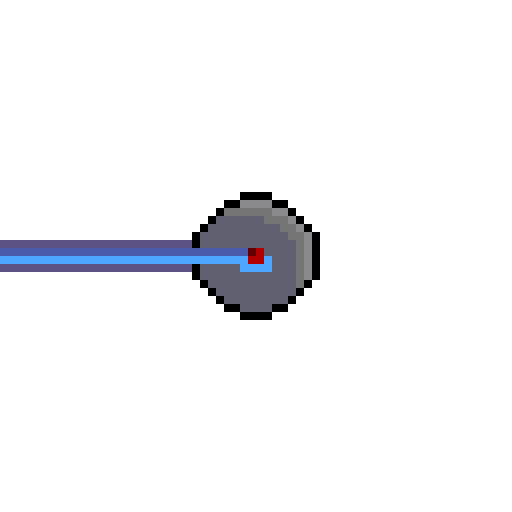
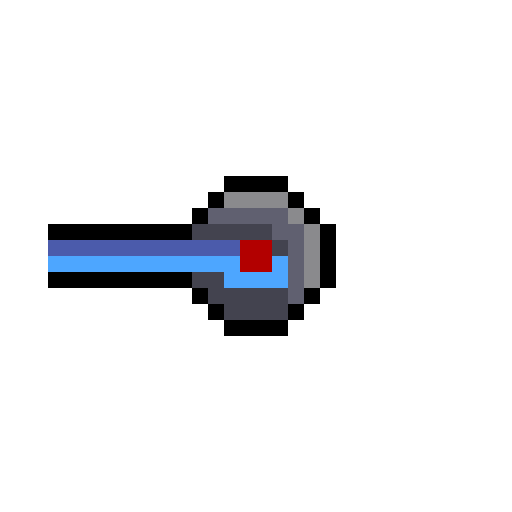
New enemy & enemy initialization tweaks
Added
-Fodder class - child of Dummy class
-Fodder.png
Modified
-SpawnEnemies() - Now spawns Fodder instead of dummy
-Dummy - takes param dims. Defines dimensions of the sprite
-Dummy.__init__() - scales Dummy.image to dims

Changed region(s): [[0.0, 0.3438, 0.6562, 0.6562]]

diff --git a/lib/Enemies.py b/lib/Enemies.py
@@ -12,6 +12,7 @@ class Dummy(pygame.sprite.Sprite):
     speed - number of pixel that a sprite will travel in one frame
     health - self explenatory
     initPos - a tuple with x and y coordinates of the sprite's initial position
+    dims - a tuple with width and height of the sprite
     """
 
     def __init__(
@@ -20,10 +21,12 @@ class Dummy(pygame.sprite.Sprite):
         speed: int,
         health: int,
         initPos: tuple[int, int],
+        dims: tuple[int, int],
     ) -> None:
         super().__init__()
 
         self.image = pygame.image.load(path)
+        self.image = pygame.transform.scale(self.image, dims)
         self.rect = self.image.get_rect()
         self.rect.center = initPos
         self.HPBar = HUD.ProgressBar(
@@ -48,3 +51,14 @@ class Dummy(pygame.sprite.Sprite):
         self.rect.centery = round(self.PosVector.y)
         self.HPBar.POSITION = (self.rect.x, self.rect.bottom + 20)
         self.HPBar.draw(self.HP)
+
+
+class Fodder(Dummy):
+    def __init__(self, initPos: tuple[int, int]) -> None:
+        super().__init__(
+            "img/Fodder.png",
+            1,
+            1,
+            initPos,
+            (50, 50),
+        )

diff --git a/lib/Player.py b/lib/Player.py
@@ -18,7 +18,7 @@ class Player(pygame.sprite.Sprite):
         self.image_base = pygame.transform.scale(self.image_base, (80, 80))
         self.image_turret_original = pygame.image.load("img/PlayerImage.png")
         self.image_turret_original = pygame.transform.scale(
-            self.image_turret_original, (150, 150)
+            self.image_turret_original, (100, 100)
         )
         self.image_turret = self.image_turret_original
         self.rect = self.image_base.get_rect()

diff --git a/main.py b/main.py
@@ -53,7 +53,7 @@ def SpawnEnemies():
             random.randint(0, constants.WIDTH),
             random.choice([0, constants.HEIGHT]),
         )
-    enemy = Enemies.Dummy("img/PlayerImage.png", 2, 5, initPos)
+    enemy = Enemies.Fodder(initPos)
     enemyGroup.add(enemy)
     enemySpawTimer = Timer(constants.SpawnIntervalSec, SpawnEnemies)
     enemySpawTimer.start()
